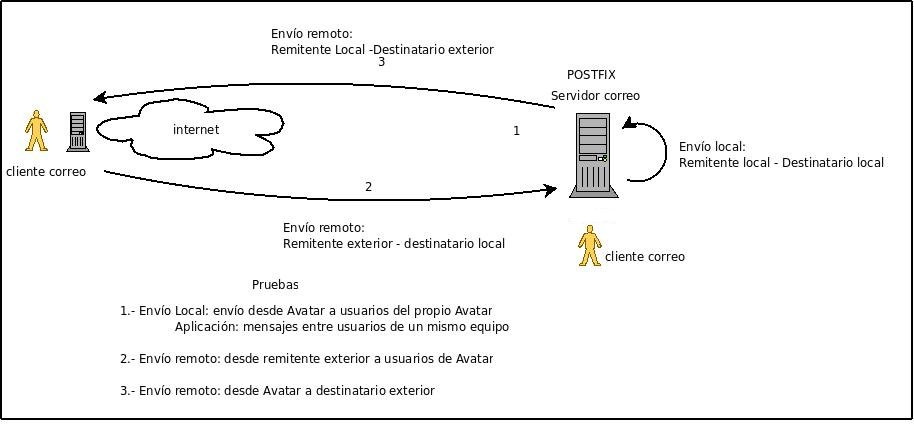
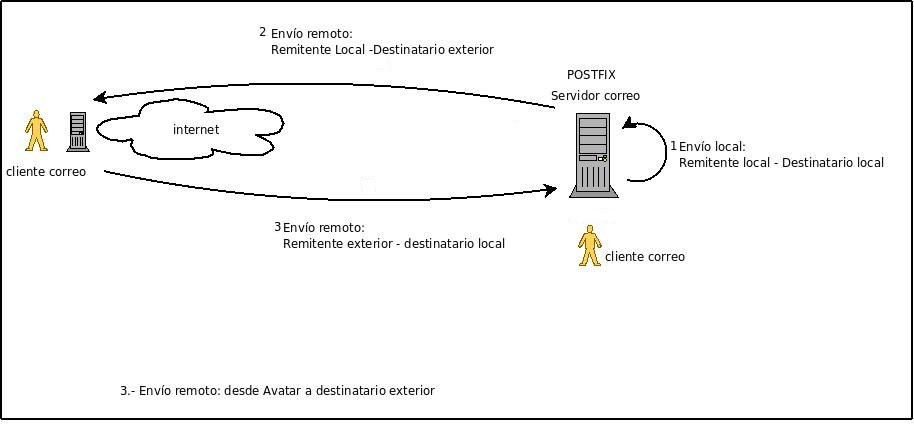
email

Changed region(s): [[0.1532, 0.6424, 0.5514, 0.7953], [0.1225, 0.8259, 0.5514, 0.8565]]

diff --git a/modulos/_serviciosgs/serviciosgs/u06/postfix5.md b/modulos/_serviciosgs/serviciosgs/u06/postfix5.md
@@ -1,34 +1,55 @@
 ---
-title: "Alias y redirecciones"
+title: "Caso 3: Envío de correos desde internet a usuarios del servidor"
 permalink: /serviciosgs/u06/postfix5.html
 ---
 
-## Alias
+## Desde el aula
 
-Cuando se define un alias para un determinado usuario se redirige el correo que llegue a otro usuario de la misma máquina. Los alias de correo se utilizan principalmente para gestionar el correo de las "cuentas de administración" y se definen en el fichero ``/etc/aliases``, que tiene el siguiente aspecto::
+Vamos a tener un correo de la forma ``usuario@dominio_de_cada_alumno``, para nuestro ejemplos pongamos ``jose@josedom.gonzalonazareno.org``.
 
-	# /etc/aliases
-	mailer-daemon: postmaster
-	postmaster: root
-	nobody: root
-	hostmaster: root
-	usenet: root
-	news: root
-	webmaster: root
-	www: root
-	ftp: root
-	abuse: root
-	noc: root
-	security: root
-	www-data: root
-	logcheck: root
-	root: alberto, jose, raul
+Tenemos que tener en cuenta los siguientes aspectos:
 
-En este caso el correo que llega a los usuarios postmaster, webmaster, etc. se redirige a la cuenta de root, que a su vez se redirige a los usuarios reales alberto, jose y raul, que son los administradores del equipo.
+1. Si queremos recibir correos desde internet a nuestro servidor, todos nuestros de dominios tienen que apuntar a nuestra ip pública `80.59.1.152`, sin embargo no hay que tocar el DNS de cdmon ya que tenemos un registro genérico que envía a `80.59.1.152` cualquier cosa de .gonzalonazareno.org que no tenga un registro tipo ADDRESS. Prueba a hacer un ``dig loquesea.gonzalonazareno.org``.
+2. Cuando se recibe un correo en esa dirección pública, lo recibe el servidor de correo que tenemos en `babuino-smtp`. Esto lo hace el cortafuegos de `macaco` (regla DNAT).
+3. Tenemos que configurar el servidor de correos de `babuino-smtp` para que haga relay con los correos cuyo destinos sean nuestros dominios, es decir el correo que vaya a ``josedom.gonzalonazareno.org`` lo tiene que enviar al servidor de correos de ese dominio, para ello:
+    * Añadimos en la directiva ``relay_domains``, del servidor de correos de `babuino-smtp`, cada uno de los nombres de dominios a los que queremos reenviar los mensajes.
+    * Para que conozca la IP de nuestro servidor de correo tendremos que crear un registro MX en nuestro servidor DNS  para realizar la resolución.
+4. Con la configuración que tenemos en el servidor de correo de nuestra máquina debe ser suficiente para recibir el correo. Recuerda mandar un mensaje a un usuario que exista en el servidor.
 
-Cada vez que se modifica el fichero ``/etc/aliases`` hay que ejecutar la instrucción ``newaliases`` para que los cambios tengan efecto.
+## Desde casa
 
-## Redirecciones
+### Usando un nombre de dominio
 
-Una redirección se utiliza para enviar el correo que llegue a un usuario a una cuenta de correo exterior. Para usuarios reales las redirecciones se definen en el fichero ``~/.forward`` y el formato de este fichero es simplemente un listado de cuentas de correo a las que se quiere redirigir el correo.
+En este caso vamos a utilizar un nombre de dominio, en mi caso he usado ``josedomingo.org``. Tenemos que tener en cuenta los siguientes aspectos:
 
+1. Configura el servidor postfix en tu ordenador, teniendo en cuenta que en el fichero ``/etc/mailname`` este tu nombre de dominio.
+2. Configura tu DNS para que el registro MX apunte a un nombre de ordenador que está definido como un registro A a tu dirección IP pública (si es dinámica y por cualquier motivo te cambia tendrás que actualizar el registro). Ejemplo:
+
+		; <<>> DiG 9.7.3 <<>> -t mx josedomingo.org
+		;; global options: +cmd
+		;; Got answer:
+		;; ->>HEADER<<- opcode: QUERY, status: NOERROR, id: 9147
+		;; flags: qr rd ra; QUERY: 1, ANSWER: 1, AUTHORITY: 3, ADDITIONAL: 4		
+
+		;; QUESTION SECTION:
+		;josedomingo.org.        IN    MX		
+
+		;; ANSWER SECTION:
+		josedomingo.org.    900    IN    MX    10 mail2.josedomingo.org.		
+
+		;; AUTHORITY SECTION:
+		josedomingo.org.    21600    IN    NS    ns1.cdmon.net.
+		josedomingo.org.    21600    IN    NS    ns3.cdmon.net.
+		josedomingo.org.    21600    IN    NS    ns2.cdmon.net.		
+
+		;; ADDITIONAL SECTION:
+		mail2.josedomingo.org.    900    IN    A    46.234.130.137
+
+3. En tu router haz DNAT para redirigir las peticiones por el puerto 25 al ordenador local que tiene instalado el servidor de correos.
+
+### Usando un nombre de máquina
+
+En el caso de que utilices un servicio gratuito como no-ip o dyndns, estarás reservando un nombre de máquina y no de dominio, por ejemplo ``avatar.dyndns.com``, en este caso no tiene sentido configurar el registro MX:
+
+1. En este caso el nombre de máquina (``avatar.dyndns.com``) por ejemplo, apuntará a tu dirección IP pública.
+2. En tu router haz DNAT para redirigir las peticiones por el puerto 25 al ordenador local que tiene instalado el servidor de correos.

diff --git a/modulos/_serviciosgs/serviciosgs/u06/postfix4.md b/modulos/_serviciosgs/serviciosgs/u06/postfix4.md
@@ -1,55 +1,26 @@
 ---
-title: "Caso 2: Envío de correos desde internet a usuarios del servidor"
+title: "Caso 2: Envío de correo desde usuarios del servidor a correos de internet"
 permalink: /serviciosgs/u06/postfix4.html
 ---
 
 ## Desde el aula
 
-Vamos a tener un correo de la forma ``usuario@dominio_de_cada_alumno``, para nuestro ejemplos pongamos ``jose@josedom.gonzalonazareno.org``.
+En el caso de la configuración de nuestra red del instituto, sólo puede enviar correo el servidor de correo de `babuino-smtp`. Por lo tanto tenemos que configurar nuestro servidor para que utilice a `babuino-smtp` como relay para enviar nuestros correos, para ello, modificamos la siguiente directiva en el fichero de configuración:
 
-Tenemos que tener en cuenta los siguientes aspectos:
+	ralayhost = babuino-smtp.gonzalonazareno.org
 
-1. Si queremos recibir correos desde internet a nuestro servidor, todos nuestros de dominios tienen que apuntar a nuestra ip pública `80.59.1.152`, sin embargo no hay que tocar el DNS de cdmon ya que tenemos un registro genérico que envía a `80.59.1.152` cualquier cosa de .gonzalonazareno.org que no tenga un registro tipo ADDRESS. Prueba a hacer un ``dig loquesea.gonzalonazareno.org``.
-2. Cuando se recibe un correo en esa dirección pública, lo recibe el servidor de correo que tenemos en `babuino-smtp`. Esto lo hace el cortafuegos de `macaco` (regla DNAT).
-3. Tenemos que configurar el servidor de correos de `babuino-smtp` para que haga relay con los correos cuyo destinos sean nuestros dominios, es decir el correo que vaya a ``josedom.gonzalonazareno.org`` lo tiene que enviar al servidor de correos de ese dominio, para ello:
-    * Añadimos en la directiva ``relay_domains``, del servidor de correos de `babuino-smtp`, cada uno de los nombres de dominios a los que queremos reenviar los mensajes.
-    * Para que conozca la IP de nuestro servidor de correo tendremos que crear un registro MX en nuestro servidor DNS  para realizar la resolución.
-4. Con la configuración que tenemos en el servidor de correo de nuestra máquina debe ser suficiente para recibir el correo. Recuerda mandar un mensaje a un usuario que exista en el servidor.
+<!--
+## Desde tu servidor OVH
 
-## Desde casa
+Con la configuración que tienes actualmente podrías mandar correos al exterior.
 
-### Usando un nombre de dominio
+Si en tu casa tienes un dirección IP dinámica seguramente gmail /hotmail/yahoo lo rechaza, por estar en una lista de bloqueo, al intentar enviar un correo nos salen registro de este tipo:
 
-En este caso vamos a utilizar un nombre de dominio, en mi caso he usado ``josedomingo.org``. Tenemos que tener en cuenta los siguientes aspectos:
+![postfix6](img/postfix4.jpg)
 
-1. Configura el servidor postfix en tu ordenador, teniendo en cuenta que en el fichero ``/etc/mailname`` este tu nombre de dominio.
-2. Configura tu DNS para que el registro MX apunte a un nombre de ordenador que está definido como un registro A a tu dirección IP pública (si es dinámica y por cualquier motivo te cambia tendrás que actualizar el registro). Ejemplo:
+Para solucionar este problema tenemos varias soluciones, que veremos en los siguientes apartados:
 
-		; <<>> DiG 9.7.3 <<>> -t mx josedomingo.org
-		;; global options: +cmd
-		;; Got answer:
-		;; ->>HEADER<<- opcode: QUERY, status: NOERROR, id: 9147
-		;; flags: qr rd ra; QUERY: 1, ANSWER: 1, AUTHORITY: 3, ADDITIONAL: 4		
-
-		;; QUESTION SECTION:
-		;josedomingo.org.        IN    MX		
-
-		;; ANSWER SECTION:
-		josedomingo.org.    900    IN    MX    10 mail2.josedomingo.org.		
-
-		;; AUTHORITY SECTION:
-		josedomingo.org.    21600    IN    NS    ns1.cdmon.net.
-		josedomingo.org.    21600    IN    NS    ns3.cdmon.net.
-		josedomingo.org.    21600    IN    NS    ns2.cdmon.net.		
-
-		;; ADDITIONAL SECTION:
-		mail2.josedomingo.org.    900    IN    A    46.234.130.137
-
-3. En tu router haz DNAT para redirigir las peticiones por el puerto 25 al ordenador local que tiene instalado el servidor de correos.
-
-### Usando un nombre de máquina
-
-En el caso de que utilices un servicio gratuito como no-ip o dyndns, estarás reservando un nombre de máquina y no de dominio, por ejemplo ``avatar.dyndns.com``, en este caso no tiene sentido configurar el registro MX:
-
-1. En este caso el nombre de máquina (``avatar.dyndns.com``) por ejemplo, apuntará a tu dirección IP pública.
-2. En tu router haz DNAT para redirigir las peticiones por el puerto 25 al ordenador local que tiene instalado el servidor de correos.
+* Enviar correos a partir de un relay host autentificado
+* Estudiar las listas de bloqueos
+* Crear registros SPF
+-->

diff --git a/modulos/_serviciosgs/serviciosgs/u06/postfix6.md b/modulos/_serviciosgs/serviciosgs/u06/postfix6.md
@@ -1,24 +1,34 @@
 ---
-title: "Caso 3: Envío de correo desde usuarios del servidor a correos de internet"
+title: "Alias y redirecciones"
 permalink: /serviciosgs/u06/postfix6.html
 ---
 
-## Desde el aula
+## Alias
 
-En el caso de la configuración de nuestra red del insitituto sólo puede enviar correo el servidor de correo de babuino. Por lo tanto tenemos que configurar nuestro servidor para que utilice a babuino como relay para enviar nuestros correos, para ello, modificamos la siguiente directiva en el fichero de configuración:
+Cuando se define un alias para un determinado usuario se redirige el correo que llegue a otro usuario de la misma máquina. Los alias de correo se utilizan principalmente para gestionar el correo de las "cuentas de administración" y se definen en el fichero ``/etc/aliases``, que tiene el siguiente aspecto::
 
-	ralayhost = babuino.gonzalonazareno.org
+	# /etc/aliases
+	mailer-daemon: postmaster
+	postmaster: root
+	nobody: root
+	hostmaster: root
+	usenet: root
+	news: root
+	webmaster: root
+	www: root
+	ftp: root
+	abuse: root
+	noc: root
+	security: root
+	www-data: root
+	logcheck: root
+	root: alberto, jose, raul
 
-## Desde casa
+En este caso el correo que llega a los usuarios postmaster, webmaster, etc. se redirige a la cuenta de root, que a su vez se redirige a los usuarios reales alberto, jose y raul, que son los administradores del equipo.
 
-Con la configuración que tienes actualmente podrías mandar correos al exterior.
+Cada vez que se modifica el fichero ``/etc/aliases`` hay que ejecutar la instrucción ``newaliases`` para que los cambios tengan efecto.
 
-Si en tu casa tienes un dirección IP dinámica seguramente gmail /hotmail/yahoo lo rechaza, por estar en una lista de bloqueo, al intentar enviar un correo nos salen registro de este tipo:
+## Redirecciones
 
-![postfix6](img/postfix4.jpg)
+Una redirección se utiliza para enviar el correo que llegue a un usuario a una cuenta de correo exterior. Para usuarios reales las redirecciones se definen en el fichero ``~/.forward`` y el formato de este fichero es simplemente un listado de cuentas de correo a las que se quiere redirigir el correo.
 
-Para solucionar este problema tenemos varias soluciones, que veremos en los siguientes apartados:
-
-* Enviar correos a partir de un relay host autentificado
-* Estudiar las listas de bloqueos
-* Crear registros SPF

diff --git a/modulos/_serviciosgs/serviciosgs/u06/index.md b/modulos/_serviciosgs/serviciosgs/u06/index.md
@@ -10,12 +10,15 @@ En esta unidad vamos a introducir el servidor de correo electrónico. Vamos a in
 * [¿Cómo funciona el correo electrónico?](como_funciona_mail.html)
 * [Instalación y configuración básica de postfix](postfix1.html)
 * [Gestión de correo desde el servidor](postfix2.html)
-* [Caso 1: Envío local, entre usuarios del mismo servidor](postfix3.html)
+  * [Caso 1: Envío local, entre usuarios del mismo servidor](postfix3.html)
+  * [Caso 2: Envío de correo desde usuarios del servidor a correos de internet](postfix4.html)
+
+
 
 <!--
-* [Caso 2: Envío de correos desde internet a usuarios del servidor](postfix4.html)
+* [Caso 3: Envío de correos desde internet a usuarios del servidor](postfix4.html)
   * [Alias y redirecciones](postfix5.html)
-* [Caso 3: Envío de correo desde usuarios del servidor a correos de internet](postfix6.html)
+
   * [Soluciones al problema del spam](postfix7.html)
 * [Caso 4: Envio de correo electrónico usando nuestro servidor de correos](postfix8.html)
 * [Caso 5: Recepción de correo electrónico usando nuestro servidor de correos](postfix9.html)

diff --git a/modulos/_serviciosgs/serviciosgs/u06/postfix2.md b/modulos/_serviciosgs/serviciosgs/u06/postfix2.md
@@ -1,6 +1,8 @@
 ---
-title: Gestión de correo desde el servidor
+title: Gestión de correo desde el servidor (local)
 permalink: /serviciosgs/u06/postfix2.html
 ---
 
 ![postfix2](img/postfix2.jpg)
+
+En este caso, el usuario va a enviar correo y recibir correo desde el propio servidor. 
